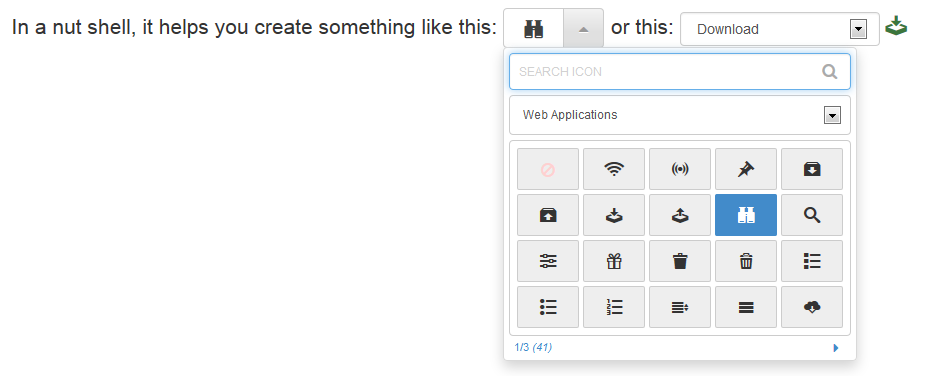
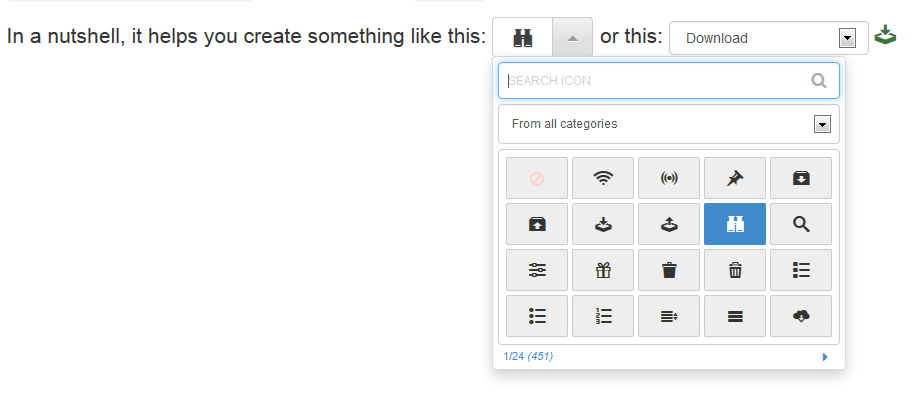
Finalizing everything

Changed region(s): [[0.0, 0.0293, 0.9707, 0.9654], [0.6067, 0.7314, 0.6371, 0.7606]]

diff --git a/index.php b/index.php
@@ -33,7 +33,7 @@ get_header();
 					}).trigger('change');
 				});
 			</script>
-			<p>In a nut shell, it helps you create something like this: <input type="text" name="fip_1" id="fip_1" value="" /> or this:
+			<p>In a nutshell, it helps you create something like this: <input type="text" name="fip_1" id="fip_1" value="" /> or this:
 			<select class="form-control" style="display: inline-block; width: 200px;" name="select_1" id="select_1">
 				<option value="" selected="selected">--please select--</option>
 				<?php echo imii_generate_select_options( $icomoon_icons, 'class' ); ?>
@@ -117,6 +117,12 @@ require_once ABSPATH . &#039;functions.php&#039;;
 		<h2 id="getting_started"><a class="pull-right" href="#main"><span class="glyphicon glyphicon-chevron-up"></span></a><span class="glyphicon glyphicon-hand-right"></span> Getting Started</h2>
 		<hr />
 		<p>We are assuming you know a little PHP and some JavaScript. You have some place to host this script, or atleast locally (using <a href="http://www.wampserver.com/en/">WAMP</a> or <a href="http://www.mamp.info/en/">MAMP</a> and hey if you are using linux, I don't need to say much).</p>
+		<p>Before you proceed make sure you have the following requirements:</p>
+		<ul>
+			<li>PHP Version 5.3+. Greater the better.</li>
+			<li>Rather some large value for <code>max_input_vars</code> (10000 would do) <code>post_max_size</code> (128MB).</li>
+			<li>A browser that can handle the app. Like Google Chrome or Mozilla Firefox.</li>
+		</ul>
 		<h3><span class="glyphicon glyphicon-check"></span> Download a font icon set from IcoMoon</h3>
 		<hr />
 		<ul>

diff --git a/ajax.php b/ajax.php
@@ -7,6 +7,17 @@ if ( $_SERVER['REQUEST_METHOD'] != 'POST' ) {
 // Include the config file
 require_once( dirname( __FILE__ ) . '/config.php' );
 
+// Kill if this is the demo site
+if ( defined( 'IPTDEMO' ) && true == IPTDEMO ) {
+	?>
+<div class="alert alert-danger">
+	<button type="button" class="close" data-dismiss="alert" aria-hidden="true">&times;</button>
+	<strong>Demo Only</strong> Saving modifications has been disabled in this demo. Please download and host it yourself.
+</div>
+	<?php
+	die();
+}
+
 // Get the JSON file
 $icm_json = json_decode( file_get_contents( ABSPATH . ICMPATH . 'selection.json' ), true );
 

diff --git a/config.php b/config.php
@@ -254,6 +254,9 @@ $icon_categories = array(
  */
 define( 'ABSPATH', dirname( __FILE__ ) . '/' );
 
+// For demo site only
+define( 'IPTDEMO', true );
+
 function get_header() {
 	require_once( ABSPATH . 'includes/header.php' );
 }

diff --git a/README.md b/README.md
@@ -57,6 +57,12 @@ Additional Features
 
 For more information and documentation make sure to see the [Online Project Demo](http://projects.ipanelthemes.com/IcoMoonIconIndexer/)
 
+Requirements
+------------
+* PHP Version 5.3+. Greater the better.
+* Rather some large value for `max_input_vars` (10000 would do) `post_max_size` (128MB).
+* A browser that can handle the app. Like Google Chrome or Mozilla Firefox.
+
 Credits
 -------
 * [IcoMoon App](http://icomoon.io/): Without which nothing would've been possible.
